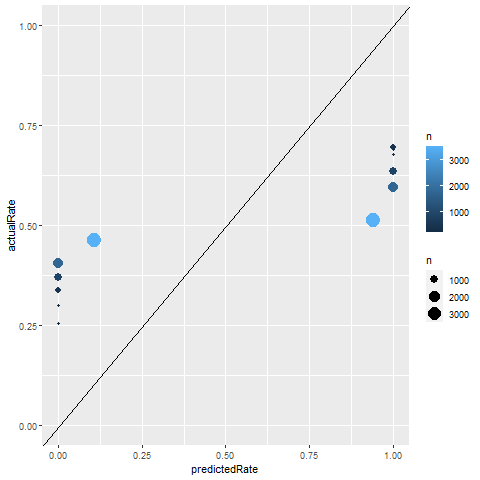
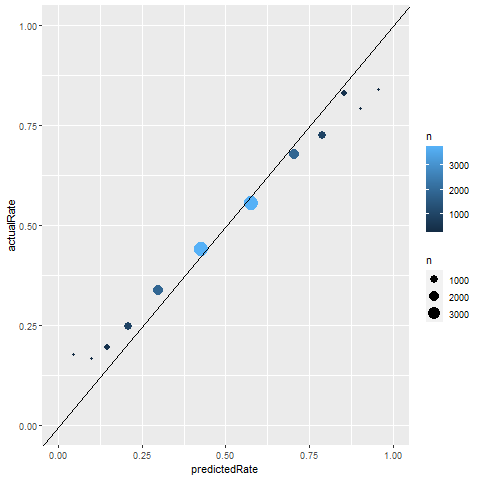
17

diff --git a/data_manipulation.py b/data_manipulation.py
@@ -8,6 +8,7 @@ from sklearn.preprocessing import StandardScaler
 from sklearn.linear_model import LogisticRegression
 from sklearn.linear_model import LinearRegression
 from sklearn.neural_network import MLPClassifier
+from helpers import match_prob
 
 def assemble_data():
     #combine matches first
@@ -174,6 +175,7 @@ def train_test_split(splitYear = 2015, path="./csv_data/"):
     data.iloc[trainRows].to_csv(path + "preMatchExpectations_train.csv", index = False)
     data.iloc[testRows].to_csv(path + "preMatchExpectations_test.csv", index = False)
 
+#method could be: logistic_regression, neural_network, points_based
 def predict(path="./csv_data/", features = ["lf","mf","sf","surf"], method = "logistic_regression"):
     train = pd.read_csv(path + "preMatchExpectations_train.csv", encoding = "ISO-8859-1")
     test = pd.read_csv(path + "preMatchExpectations_test.csv", encoding = "ISO-8859-1")
@@ -187,7 +189,55 @@ def predict(path="./csv_data/", features = ["lf","mf","sf","surf"], method = "lo
                 dict[x + "_" + cat + "_" + key] = []
                 dict[x + "_" + cat + "_" + key] = []
 
+    if (method == "points_based"):
+        newTr = {"act_1stIn%":[],"act_1stWin%":[],"act_2ndIn%":[],"act_2ndWin%":[]}
+        for x in keys:
+            for y in cats:
+                if ("1stIn%" in x or "2ndIn%" in x or "1stWin%" in x or "Ace%" in x or "2ndWin%" in x):
+                    if (y not in features):
+                        continue
+                    newTr[y + "_" + x] = []
+                if ("1stRtnWin%" in x or "RtnSrv%" in x or "2ndRtnWin%" in x):
+                    if (y not in features):
+                        continue
+                    newTr["x_" + y + "_" + x] = []
+
+        newTe = {"act_1stIn%":[],"act_1stWin%":[],"act_2ndIn%":[],"act_2ndWin%":[]}
+        for x in keys:
+            for y in cats:
+                if ("1stIn%" in x or "2ndIn%" in x or "1stWin%" in x or "Ace%" in x or "2ndWin%" in x):
+                    if (y not in features):
+                        continue
+                    newTe[y + "_" + x] = []
+                if ("1stRtnWin%" in x or "RtnSrv%" in x or "2ndRtnWin%" in x):
+                    if (y not in features):
+                        continue
+                    newTe["x_" + y + "_" + x] = []
+
     for index, row in train.iterrows():
+        if (method == "points_based"):
+            if (row["w_svpt"] - row["w_1stIn"] > 0 and row["w_svpt"] - row["w_1stIn"] - row["w_df"] > 0 and row["w_1stIn"] > 0):
+                newTr["act_1stIn%"].append(row["w_1stIn"] / row["w_svpt"])
+                newTr["act_1stWin%"].append(row["w_1stWon"] / row["w_1stIn"])
+                newTr["act_2ndIn%"].append((row["w_svpt"] - row["w_1stIn"] - row["w_df"]) / (row["w_svpt"] - row["w_1stIn"]))
+                newTr["act_2ndWin%"].append(row["w_2ndWon"] / (row["w_svpt"] - row["w_1stIn"] - row["w_df"]))
+                for key in newTr:
+                    if ("act" not in key):
+                        if ("x_" not in key):
+                            newTr[key].append(row["w_" + key])
+                        else:
+                            newTr[key].append(row["l_" + key.split("x_")[1]])
+            if (row["l_svpt"] - row["l_1stIn"] > 0 and row["l_svpt"] - row["l_1stIn"] - row["l_df"] > 0 and row["l_1stIn"] > 0):
+                newTr["act_1stIn%"].append(row["l_1stIn"] / row["l_svpt"])
+                newTr["act_1stWin%"].append(row["l_1stWon"] / row["l_1stIn"])
+                newTr["act_2ndIn%"].append((row["l_svpt"] - row["l_1stIn"] - row["l_df"]) / (row["l_svpt"] - row["l_1stIn"]))
+                newTr["act_2ndWin%"].append(row["l_2ndWon"] / (row["l_svpt"] - row["l_1stIn"] - row["l_df"]))
+                for key in newTr:
+                    if ("act" not in key):
+                        if ("x_" not in key):
+                            newTr[key].append(row["l_" + key])
+                        else:
+                            newTr[key].append(row["w_" + key.split("x_")[1]])
         num = random.randint(0,1)
         if (num == 0):
             dict["Player 1"].append(row["Winner"])
@@ -294,24 +344,24 @@ def predict(path="./csv_data/", features = ["lf","mf","sf","surf"], method = "lo
     #     test[key] = dict[key]
 
     predictions = []
-    tempcols = []
-    for x in xCols:
-        tempcols.append(x)
-    tempcols.append("Player 1")
-    tempcols.append("Player 2")
-    tempcols.append("Player 1 Odds")
-    tempcols.append("Player 2 Odds")
-    tempcols.append("Player 1 Win")
-    train = pd.DataFrame(train, columns = tempcols).dropna()
-    test = pd.DataFrame(test, columns = tempcols).dropna()
-    y_train = train["Player 1 Win"]
-    #xCols = ["p1_expected_1stServePoint%_above_expectation", "p1_expected_2ndServePoint%_above_expectation", "p2_expected_1stServePoint%_above_expectation", "p2_expected_2ndServePoint%_above_expectation", "p1_adj_expected_1stServePoint%_above_expectation", "p1_adj_expected_2ndServePoint%_above_expectation", "p2_adj_expected_1stServePoint%_above_expectation", "p2_adj_expected_2ndServePoint%_above_expectation", "p1_surf_adj_expected_1stServePoint%_above_expectation", "p1_surf_adj_expected_2ndServePoint%_above_expectation", "p2_surf_adj_expected_1stServePoint%_above_expectation", "p2_surf_adj_expected_2ndServePoint%_above_expectation", "Book Rtg"]
-    scaler = StandardScaler()
-    X_train = pd.DataFrame(train, columns = xCols)
-    X_train[xCols] = scaler.fit_transform(X_train[xCols])
-    X_test = pd.DataFrame(test, columns = xCols)
-    X_test[xCols] = scaler.transform(X_test[xCols])
+
     if (method == "logistic_regression"):
+        tempcols = []
+        for x in xCols:
+            tempcols.append(x)
+        tempcols.append("Player 1")
+        tempcols.append("Player 2")
+        tempcols.append("Player 1 Odds")
+        tempcols.append("Player 2 Odds")
+        tempcols.append("Player 1 Win")
+        train = pd.DataFrame(train, columns = tempcols).dropna()
+        test = pd.DataFrame(test, columns = tempcols).dropna()
+        y_train = train["Player 1 Win"]
+        scaler = StandardScaler()
+        X_train = pd.DataFrame(train, columns = xCols)
+        X_train[xCols] = scaler.fit_transform(X_train[xCols])
+        X_test = pd.DataFrame(test, columns = xCols)
+        X_test[xCols] = scaler.transform(X_test[xCols])
         model = LogisticRegression(max_iter = 100000, C = 999999999)
         model.fit(X = X_train, y = y_train)
         for p in model.predict_proba(X_test):
@@ -322,6 +372,22 @@ def predict(path="./csv_data/", features = ["lf","mf","sf","surf"], method = "lo
         test["Player 1 Prob"] = predictions
         test.to_csv(path + method + "_predictions.csv", index = False)
     elif (method == "neural_network"):
+        tempcols = []
+        for x in xCols:
+            tempcols.append(x)
+        tempcols.append("Player 1")
+        tempcols.append("Player 2")
+        tempcols.append("Player 1 Odds")
+        tempcols.append("Player 2 Odds")
+        tempcols.append("Player 1 Win")
+        train = pd.DataFrame(train, columns = tempcols).dropna()
+        test = pd.DataFrame(test, columns = tempcols).dropna()
+        y_train = train["Player 1 Win"]
+        scaler = StandardScaler()
+        X_train = pd.DataFrame(train, columns = xCols)
+        X_train[xCols] = scaler.fit_transform(X_train[xCols])
+        X_test = pd.DataFrame(test, columns = xCols)
+        X_test[xCols] = scaler.transform(X_test[xCols])
         model = MLPClassifier(random_state = 122, max_iter = 100000, verbose = True, activation = "logistic", learning_rate = "adaptive")
         model.fit(X = X_train, y = y_train)
         for p in model.predict_proba(X_test):
@@ -329,5 +395,104 @@ def predict(path="./csv_data/", features = ["lf","mf","sf","surf"], method = "lo
                 predictions.append(p[1])
             else:
                 predictions.append(p[0])
+        test["Player 1 Prob"] = predictions
+        test.to_csv(path + method + "_predictions.csv", index = False)
+    elif (method == "points_based"):
+        pred_p1_1stIn = []
+        pred_p1_2ndIn = []
+        pred_p1_1stWin = []
+        pred_p1_2ndWin = []
+        pred_p2_1stIn = []
+        pred_p2_2ndIn = []
+        pred_p2_1stWin = []
+        pred_p2_2ndWin = []
+        newTr = pd.DataFrame.from_dict(newTr)
+        m1Cols = []
+        m2Cols = []
+        m3Cols = []
+        m4Cols = []
+        for cat in cats:
+            m1Cols.append(cat + "_1stIn%")
+            m2Cols.append(cat + "_2ndIn%")
+            m3Cols.append(cat + "_1stWin%")
+            m3Cols.append("x_" + cat + "_1stRtnWin%")
+            m3Cols.append(cat + "_Ace%")
+            m3Cols.append("x_" + cat + "_RtnSrv%")
+            m4Cols.append(cat + "_2ndWin%")
+            m4Cols.append("x_" + cat + "_2ndRtnWin%")
+        modelDict = {}
+        pd.DataFrame(newTr)
+        modelDict["1stIn%"] = LinearRegression(fit_intercept = False).fit(X = newTr[m1Cols], y = newTr["act_1stIn%"].to_numpy().reshape(-1,1))
+        modelDict["2ndIn%"] = LinearRegression(fit_intercept = False).fit(X = newTr[m2Cols], y = newTr["act_2ndIn%"].to_numpy().reshape(-1,1))
+        modelDict["1stWin%"] = LinearRegression(fit_intercept = False).fit(X = newTr[m3Cols], y = newTr["act_1stWin%"].to_numpy().reshape(-1,1))
+        modelDict["2ndWin%"] = LinearRegression(fit_intercept = False).fit(X = newTr[m4Cols], y = newTr["act_2ndWin%"].to_numpy().reshape(-1,1))
+        p1m1Cols = []
+        p1m2Cols = []
+        p1m3Cols = []
+        p1m4Cols = []
+        p2m1Cols = []
+        p2m2Cols = []
+        p2m3Cols = []
+        p2m4Cols = []
+        for cat in cats:
+            p1m1Cols.append("p1_" + cat + "_1stIn%")
+            p1m2Cols.append("p1_" + cat + "_2ndIn%")
+            p1m3Cols.append("p1_" + cat + "_1stWin%")
+            p1m3Cols.append("p2_" + cat + "_1stRtnWin%")
+            p1m3Cols.append("p1_" + cat + "_Ace%")
+            p1m3Cols.append("p2_" + cat + "_RtnSrv%")
+            p1m4Cols.append("p1_" + cat + "_2ndWin%")
+            p1m4Cols.append("p2_" + cat + "_2ndRtnWin%")
+            p2m1Cols.append("p2_" + cat + "_1stIn%")
+            p2m2Cols.append("p2_" + cat + "_2ndIn%")
+            p2m3Cols.append("p2_" + cat + "_1stWin%")
+            p2m3Cols.append("p1_" + cat + "_1stRtnWin%")
+            p2m3Cols.append("p2_" + cat + "_Ace%")
+            p2m3Cols.append("p1_" + cat + "_RtnSrv%")
+            p2m4Cols.append("p2_" + cat + "_2ndWin%")
+            p2m4Cols.append("p1_" + cat + "_2ndRtnWin%")
+        for index, row in test.iterrows():
+            a = []
+            for col in p1m1Cols:
+                a.append(row[col])
+            pred_p1_1stIn.append(modelDict["1stIn%"].predict(np.asarray(a).reshape(1, -1))[0][0])
+            a = []
+            for col in p1m2Cols:
+                a.append(row[col])
+            pred_p1_2ndIn.append(modelDict["2ndIn%"].predict(np.asarray(a).reshape(1, -1))[0][0])
+            a = []
+            for col in p1m3Cols:
+                a.append(row[col])
+            pred_p1_1stWin.append(modelDict["1stWin%"].predict(np.asarray(a).reshape(1, -1))[0][0])
+            a = []
+            for col in p1m4Cols:
+                a.append(row[col])
+            pred_p1_2ndWin.append(modelDict["2ndWin%"].predict(np.asarray(a).reshape(1, -1))[0][0])
+            a = []
+            for col in p2m1Cols:
+                a.append(row[col])
+            pred_p2_1stIn.append(modelDict["1stIn%"].predict(np.asarray(a).reshape(1, -1))[0][0])
+            a = []
+            for col in p2m2Cols:
+                a.append(row[col])
+            pred_p2_2ndIn.append(modelDict["2ndIn%"].predict(np.asarray(a).reshape(1, -1))[0][0])
+            a = []
+            for col in p2m3Cols:
+                a.append(row[col])
+            pred_p2_1stWin.append(modelDict["1stWin%"].predict(np.asarray(a).reshape(1, -1))[0][0])
+            a = []
+            for col in p2m4Cols:
+                a.append(row[col])
+            pred_p2_2ndWin.append(modelDict["2ndWin%"].predict(np.asarray(a).reshape(1, -1))[0][0])
+        test["pred_p1_1stIn"] = pred_p1_1stIn
+        test["pred_p1_2ndIn"] = pred_p1_2ndIn
+        test["pred_p1_1stWin"] = pred_p1_1stWin
+        test["pred_p1_2ndWin"] = pred_p1_2ndWin
+        test["pred_p2_1stIn"] = pred_p2_1stIn
+        test["pred_p2_2ndIn"] = pred_p2_2ndIn
+        test["pred_p2_1stWin"] = pred_p2_1stWin
+        test["pred_p2_2ndWin"] = pred_p2_2ndWin
+        for i in range(len(pred_p1_1stIn)):
+            predictions.append(match_prob(pred_p1_1stIn[i], pred_p1_1stWin[i], pred_p1_2ndIn[i], pred_p1_2ndWin[i], pred_p2_1stIn[i], pred_p2_1stWin[i], pred_p2_2ndIn[i], pred_p2_2ndWin[i], row["Best of"]))
         test["Player 1 Prob"] = predictions
         test.to_csv(path + method + "_predictions.csv", index = False)

diff --git a/main.py b/main.py
@@ -1,12 +1,9 @@
 import data_manipulation as dm
 import prediction_evaluation as pe
-from helpers import match_prob
 
 #dm.assemble_data()
 #dm.pre_match_stats(path="./csv_data/6.0/")
 #dm.train_test_split(path="./csv_data/6.0/")
-#dm.predict(path = "./csv_data/6.0/", method = "neural_network")
-#pe.simulateKellyBets(20000, kellyDiv = 1, pred_path='./csv_data/6.0/neural_network_predictions.csv')
+#dm.predict(path = "./csv_data/6.0/", method = "points_based")
+pe.simulateKellyBets(20000, kellyDiv = 1, pred_path='./csv_data/6.0/points_based_predictions.csv')
 #pe.simulateFixedBets(20000, pred_path='./csv_data/6.0/logistic_regression/predictions.csv')
-#print (MC_game(0.6, 0.8, 0.84, 0.63))
-print (match_prob(0.6544, 0.695, 0.874, 0.574, 0.651, 0.71, 0.909, 0.58, bestOf = 3))
